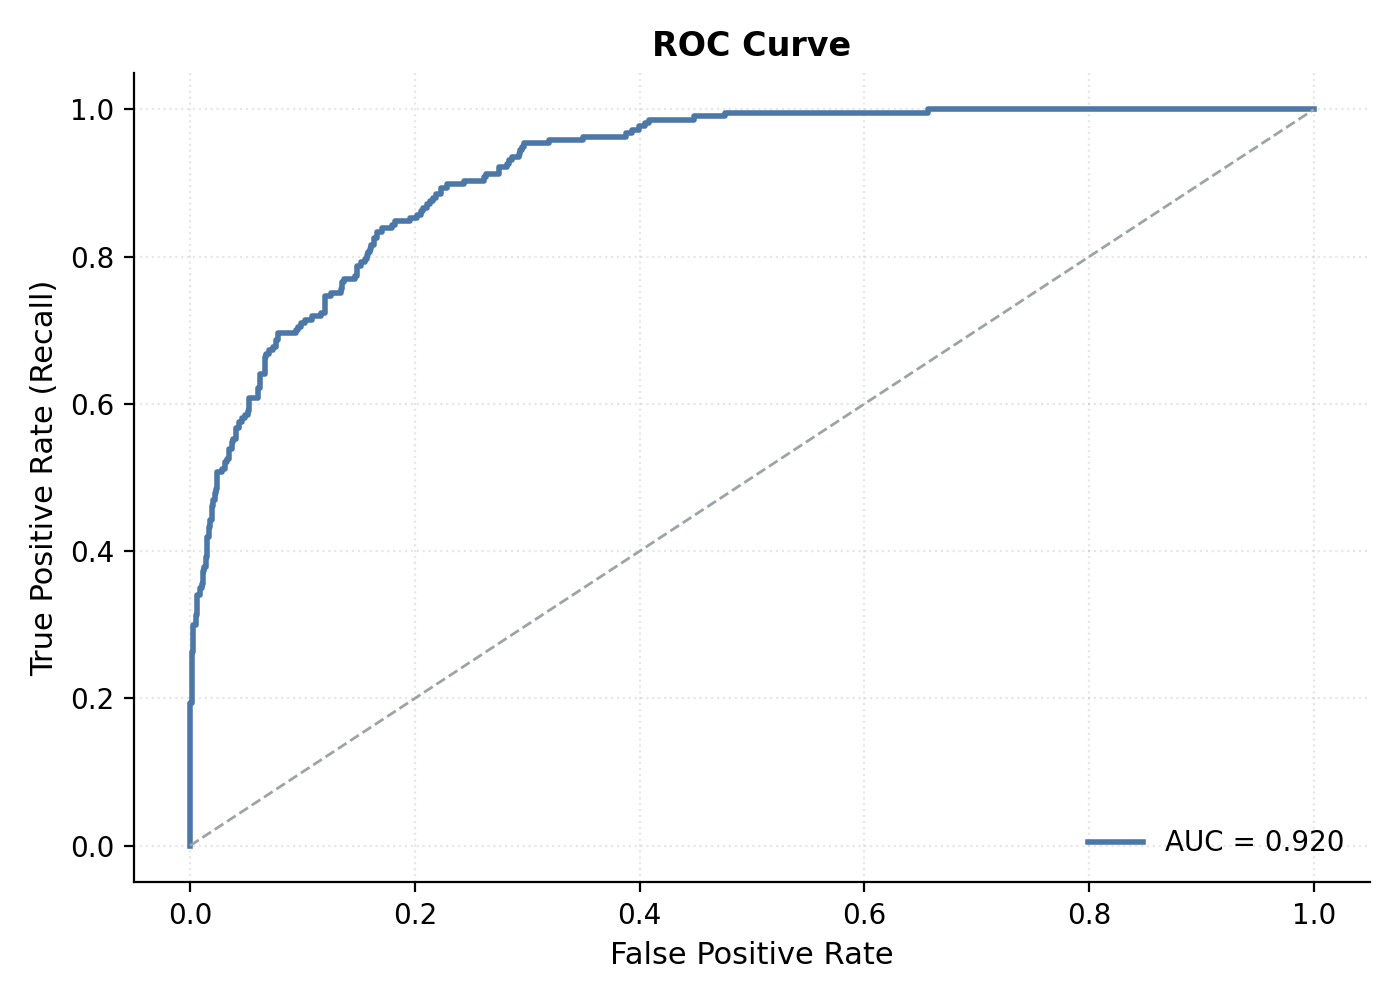
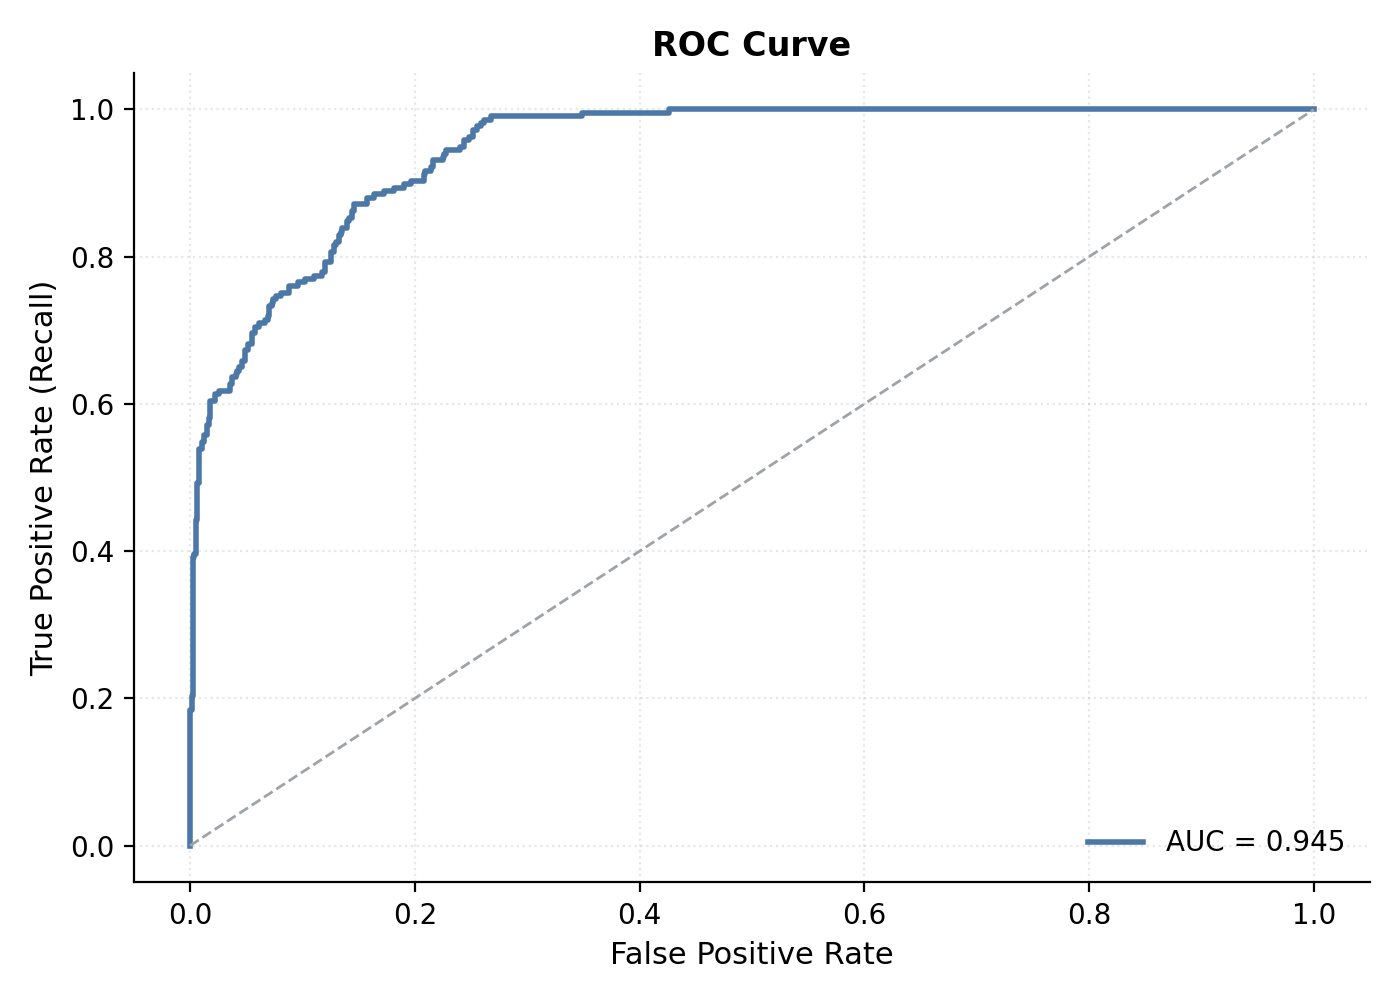
Completed SVM model

diff --git a/svm.py b/svm.py
@@ -1,10 +1,12 @@
 """
 Support Vector Machine model for liver cancer prediction.
 By: Benjamin Gunasekera
+Referenced logistic_regression.py
 """
 from logistic_regression import load_data, prepare_features_and_target, save_model
 from sklearn.svm import SVC
 import argparse
+from sklearn.model_selection import GridSearchCV
 from sklearn.metrics import (
     recall_score,
     precision_score,
@@ -28,12 +30,12 @@ def svm_train_model(X_train, y_train, kernel: str = "rbf", C: int = 1,
     Returns:
         Trained SVC model
     """
-    model = SVC(C=C, kernel=kernel, max_iter=max_iter, random_state=random_state)
+    param_grid = {'C': [0.1, 1, 10, 100, 1000], 
+			    'gamma': [1, 0.1, 0.01, 0.001, 0.0001]}
+    model = GridSearchCV(SVC(kernel='rbf', random_state=random_state), param_grid, refit=True, verbose=1)
     model.fit(X_train, y_train)
     return model
 
-def svm_optimize_model():
-    raise NotImplementedError
 
 def svm_evaluate_model(model, X_test, y_test):
     y_pred = model.predict(X_test)
@@ -198,6 +200,8 @@ def main():
         max_iter=args.max_iter,
         random_state=args.random_state
     )
+    print("\n")
+    print()
 
     # Evaluate model
     print("\n" + "="*70)
